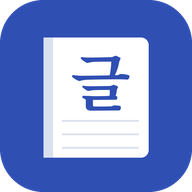
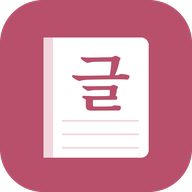
나의 글방 색을 로즈 핑크 톤으로 바꿈
Claude-Session: https://claude.ai/code/session_01B4MNPLCwQbT1Gmbrn7F7xm

diff --git a/docs/old/index.html b/docs/old/index.html
@@ -3,8 +3,8 @@
 <head>
 <meta charset="utf-8">
 <meta name="viewport" content="width=device-width, initial-scale=1, viewport-fit=cover">
-<meta name="theme-color" content="#f5f6f8" media="(prefers-color-scheme: light)">
-<meta name="theme-color" content="#12151c" media="(prefers-color-scheme: dark)">
+<meta name="theme-color" content="#fbf3f1" media="(prefers-color-scheme: light)">
+<meta name="theme-color" content="#1c1517" media="(prefers-color-scheme: dark)">
 <meta name="apple-mobile-web-app-capable" content="yes">
 <meta name="mobile-web-app-capable" content="yes">
 <meta name="apple-mobile-web-app-title" content="나의 글방">
@@ -17,34 +17,34 @@
 <link rel="preconnect" href="https://fonts.gstatic.com" crossorigin>
 <link rel="stylesheet" href="https://fonts.googleapis.com/css2?family=Nanum+Pen+Script&family=Gowun+Batang:wght@400;700&family=IBM+Plex+Sans+KR:wght@400;500;600&display=swap">
 <style>
-/* Layout: a shelf of notebooks (categories) → inside one, a narrow index of writings beside a lined page; phones step through shelf → list → page */
+/* Palette: dusty rose on blush cream, pastel notebook spines. Layout: a shelf of notebooks (categories) → inside one, a narrow index of writings beside a lined page; phones step through shelf → list → page */
 :root {
-  --paper: #f5f6f8;
+  --paper: #fbf3f1;
   --page: #ffffff;
-  --ink: #1d2433;
-  --ink-soft: #5b6475;
-  --line: #e2e6ee;
-  --rule: #d9e1f0;
-  --accent: #2f4fb3;
-  --accent-soft: #e8edfa;
+  --ink: #3a2a2e;
+  --ink-soft: #8a6f75;
+  --line: #f0dfe0;
+  --rule: #f3e2e4;
+  --accent: #b8506b;
+  --accent-soft: #fbe7ec;
   --danger: #b4372f;
-  --c1: #2f4fb3; --c2: #2f7a5f; --c3: #8a4a9c; --c4: #b0662a; --c5: #3b7f99; --c6: #a53d5b;
+  --c1: #c7607a; --c2: #d98c6a; --c3: #9a7ab8; --c4: #6fa58f; --c5: #d4a24c; --c6: #6d8fc4;
   --font-hand: "Nanum Pen Script", "Gowun Batang", cursive;
   --font-write: "Gowun Batang", "Noto Serif KR", serif;
   --font-ui: "IBM Plex Sans KR", system-ui, -apple-system, sans-serif;
 }
 @media (prefers-color-scheme: dark) {
   :root:not([data-theme="light"]) {
-    --paper: #12151c; --page: #1a1e27; --ink: #e6e9f0; --ink-soft: #99a1b3;
-    --line: #2a303d; --rule: #262c3a; --accent: #8fa8f2; --accent-soft: #242c45; --danger: #f08a80;
-    --c1: #8fa8f2; --c2: #7cc4a6; --c3: #c79ad6; --c4: #e3a56f; --c5: #82c3db; --c6: #e590a8;
+    --paper: #1c1517; --page: #261d20; --ink: #f3e6e8; --ink-soft: #b59da3;
+    --line: #3a2c30; --rule: #33272b; --accent: #f29bb0; --accent-soft: #3d2830; --danger: #f08a80;
+    --c1: #f29bb0; --c2: #f0ae8e; --c3: #c4a6e0; --c4: #9fcfb9; --c5: #ecc77d; --c6: #9fb8e6;
     color-scheme: dark;
   }
 }
 :root[data-theme="dark"] {
-  --paper: #12151c; --page: #1a1e27; --ink: #e6e9f0; --ink-soft: #99a1b3;
-  --line: #2a303d; --rule: #262c3a; --accent: #8fa8f2; --accent-soft: #242c45; --danger: #f08a80;
-  --c1: #8fa8f2; --c2: #7cc4a6; --c3: #c79ad6; --c4: #e3a56f; --c5: #82c3db; --c6: #e590a8;
+  --paper: #1c1517; --page: #261d20; --ink: #f3e6e8; --ink-soft: #b59da3;
+    --line: #3a2c30; --rule: #33272b; --accent: #f29bb0; --accent-soft: #3d2830; --danger: #f08a80;
+    --c1: #f29bb0; --c2: #f0ae8e; --c3: #c4a6e0; --c4: #9fcfb9; --c5: #ecc77d; --c6: #9fb8e6;
   color-scheme: dark;
 }
 html, body { height: 100%; }

diff --git a/docs/old/sw.js b/docs/old/sw.js
@@ -1,4 +1,4 @@
-const CACHE = "my-geulbang-v3";
+const CACHE = "my-geulbang-v4";
 const SHELL = ["./", "index.html", "manifest.webmanifest", "icon-192.png", "icon-512.png", "apple-touch-icon.png"];
 self.addEventListener("install", (e) => { e.waitUntil(caches.open(CACHE).then((c) => c.addAll(SHELL)).then(() => self.skipWaiting())); });
 self.addEventListener("activate", (e) => {
